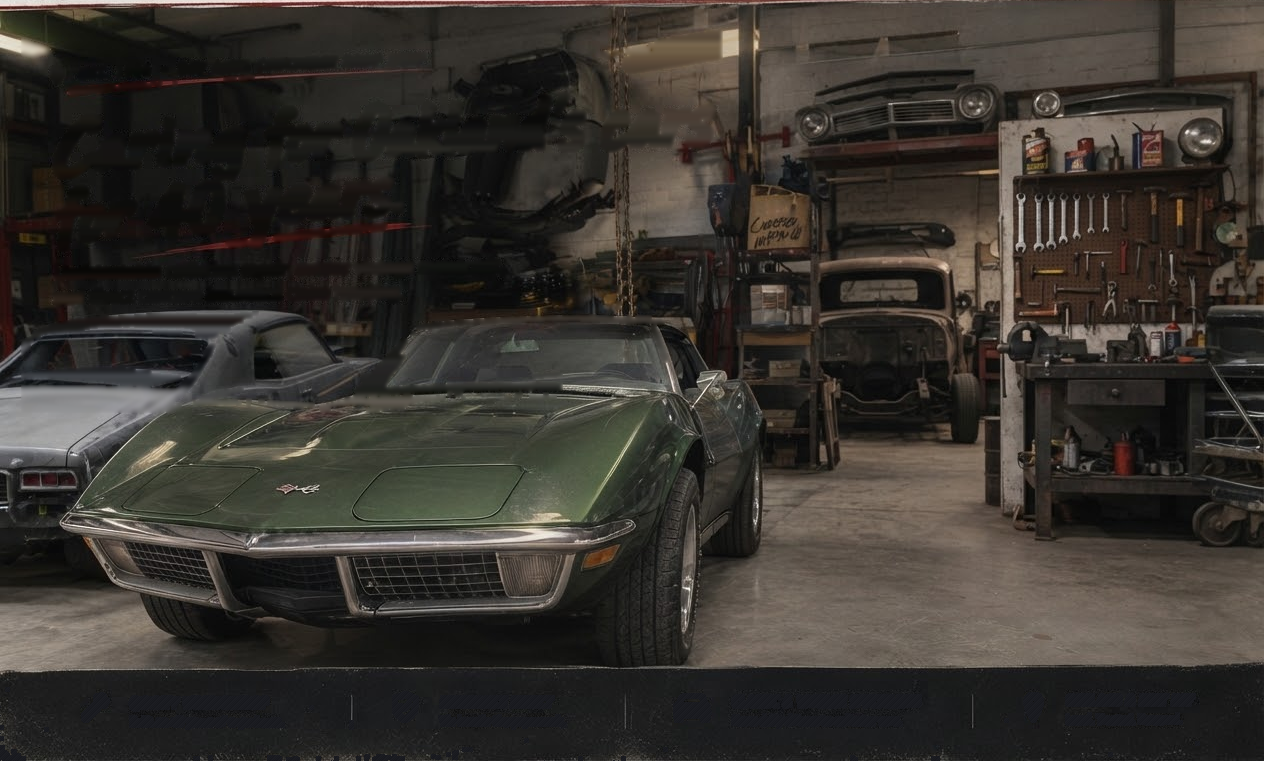
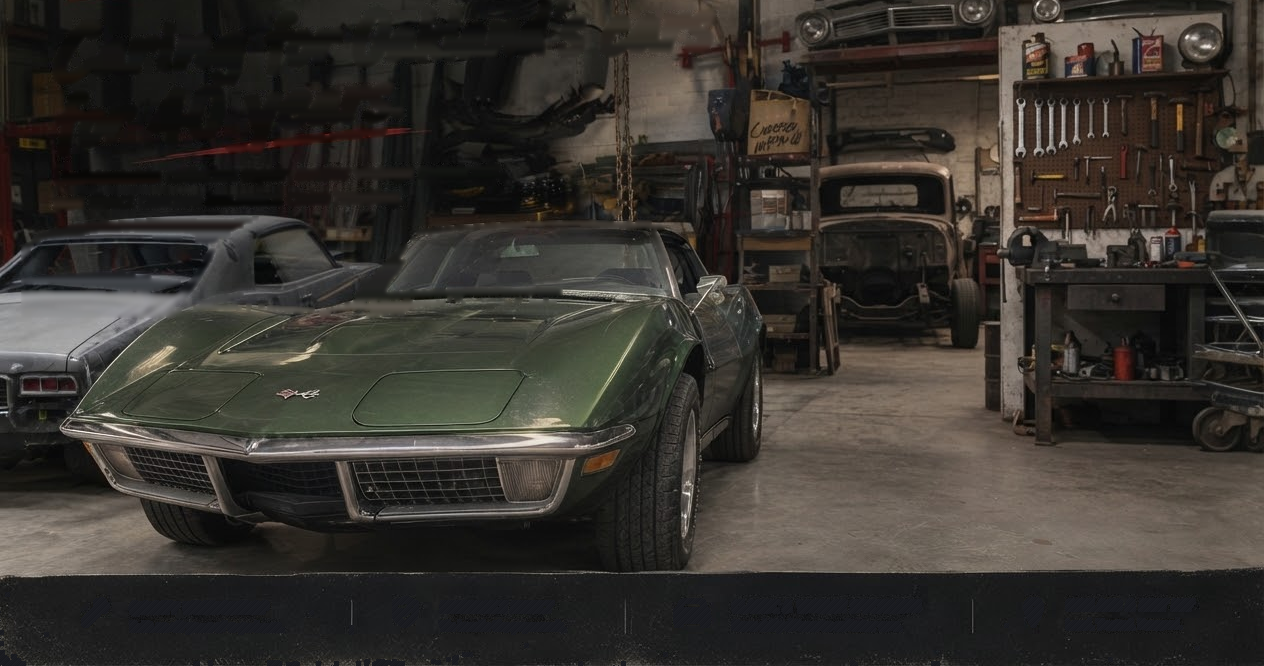
refactor: optimize UI/UX and fix navigation links
Reduce Hero section height, refine mobile Navbar styling, and convert static buttons to functional navigation links for Maps and Phone.

diff --git a/src/components/Hero.tsx b/src/components/Hero.tsx
@@ -24,16 +24,16 @@ export const Hero: React.FC = () => {
       <div className="block md:hidden bg-white p-3 sm:p-4">
         <div className="w-full bg-[#131418] rounded-3xl overflow-hidden border border-white/10 shadow-2xl">
           
-          {/* Top Visual Area with workshop image and smooth fade */}
-          <div className="relative w-full h-64 sm:h-72 overflow-hidden">
+          {/* Top Visual Area with workshop image and smooth fade - trimmed ~1/8 to reduce vertical footprint */}
+          <div className="relative w-full h-56 sm:h-64 overflow-hidden">
             <img
               src={heroBg}
               alt="California Auto Care One - Oakland Shop"
-              className="w-full h-full object-cover object-[50%_35%] block"
+              className="w-full h-full object-cover object-[50%_25%] block"
               loading="eager"
             />
             {/* Top dark subtle gradient for badge clarity */}
-            <div className="absolute inset-x-0 top-0 h-16 bg-gradient-to-b from-black/60 to-transparent pointer-events-none" />
+            <div className="absolute inset-x-0 top-0 h-14 bg-gradient-to-b from-black/60 to-transparent pointer-events-none" />
 
             {/* Pill Badge at the top */}
             <div className="absolute top-3 left-1/2 -translate-x-1/2 w-max max-w-[92%] z-10 pointer-events-none">
@@ -44,7 +44,7 @@ export const Hero: React.FC = () => {
             </div>
 
             {/* Smooth bottom fade into dark card background */}
-            <div className="absolute inset-x-0 bottom-0 h-32 bg-gradient-to-t from-[#131418] via-[#131418]/75 to-transparent pointer-events-none" />
+            <div className="absolute inset-x-0 bottom-0 h-28 bg-gradient-to-t from-[#131418] via-[#131418]/75 to-transparent pointer-events-none" />
           </div>
 
           {/* Card Content Area */}
@@ -63,37 +63,14 @@ export const Hero: React.FC = () => {
               Undetectable collision repair, master vintage metalcraft &amp; direct insurance claim handling. Built on transparency.
             </p>
 
-            {/* Primary Action Button: Book Online & Save $20 (Commented out - will return with new app) */}
-            {/*
-            <button
-              type="button"
-              onClick={handleScrollToServices}
-              className="w-full bg-[#8c2222] hover:bg-[#a12828] active:scale-[0.99] text-white p-3 rounded-2xl flex items-center justify-between shadow-lg shadow-red-950/40 transition-all mb-2.5 cursor-pointer select-none"
-            >
-              <div className="flex items-center gap-2.5">
-                <div className="w-9 h-9 rounded-xl bg-black/20 flex items-center justify-center shrink-0">
-                  <Calendar className="w-4.5 h-4.5 text-white" />
-                </div>
-                <div className="text-left leading-tight">
-                  <div className="text-xs font-bold text-white">Book Online &amp; Save</div>
-                  <div className="text-sm sm:text-base font-extrabold text-white">$20</div>
-                </div>
-              </div>
-              <div className="bg-[#591414] px-2.5 py-1.5 rounded-xl flex items-center gap-1.5 text-[10.5px] font-black uppercase tracking-wider text-white">
-                <span>INSTANT</span>
-                <ArrowRight className="w-3.5 h-3.5" />
-              </div>
-            </button>
-            */}
-
-            {/* Secondary Action Buttons Row: Compact single-line inline fit */}
-            <div className="grid grid-cols-2 gap-2">
+            {/* Action Buttons Row: Bigger and more comfortable touch targets */}
+            <div className="grid grid-cols-2 gap-3 mt-1">
               <a
                 href="tel:5105001018"
-                className="flex items-center justify-center gap-2 bg-[#1f2128] hover:bg-[#282a33] text-white py-2.5 px-2 rounded-xl border border-white/5 active:scale-95 transition-all shadow-sm"
+                className="flex items-center justify-center gap-2.5 bg-[#1f2128] hover:bg-[#2a2d37] active:bg-[#323642] text-white py-3.5 px-3 rounded-2xl border border-white/10 active:scale-[0.98] transition-all shadow-md group"
               >
-                <Phone className="w-3.5 h-3.5 text-stone-300 shrink-0" />
-                <span className="text-white font-bold text-xs whitespace-nowrap tracking-tight">
+                <Phone className="w-4.5 h-4.5 text-red-400 group-hover:text-red-300 transition-colors shrink-0" />
+                <span className="text-white font-bold text-sm sm:text-[15px] whitespace-nowrap tracking-tight">
                   (510) 500-1018
                 </span>
               </a>
@@ -101,10 +78,10 @@ export const Hero: React.FC = () => {
                 href="https://maps.google.com/?q=California+Auto+Care+One+Oakland+CA"
                 target="_blank"
                 rel="noopener noreferrer"
-                className="flex items-center justify-center gap-1.5 bg-[#1f2128] hover:bg-[#282a33] text-white py-2.5 px-2 rounded-xl border border-white/5 active:scale-95 transition-all font-bold text-xs shadow-sm"
+                className="flex items-center justify-center gap-2 bg-[#1f2128] hover:bg-[#2a2d37] active:bg-[#323642] text-white py-3.5 px-3 rounded-2xl border border-white/10 active:scale-[0.98] transition-all font-bold text-sm sm:text-[15px] shadow-md group"
               >
-                <Navigation className="w-3.5 h-3.5 text-stone-300 shrink-0" />
-                <span className="text-white">Directions</span>
+                <Navigation className="w-4.5 h-4.5 text-red-400 group-hover:text-red-300 transition-colors shrink-0" />
+                <span className="text-white tracking-tight">Directions</span>
               </a>
             </div>
 
@@ -182,28 +159,15 @@ export const Hero: React.FC = () => {
               </div>
             </h1>
 
-            {/* Stylized Action Buttons - Stacked Vertically */}
-            <div className="mt-3 sm:mt-4 ml-1 sm:ml-2 flex flex-col items-start gap-2 sm:gap-2.5 pointer-events-auto">
-              {/* Primary CTA: Book Online & Save $20 (Commented out - will return with new app) */}
-              {/*
-              <button
-                type="button"
-                onClick={handleScrollToServices}
-                className="group flex items-center gap-2 bg-[#8c2222] hover:bg-[#a12828] active:scale-95 text-white py-2 px-4 rounded-xl shadow-lg shadow-black/70 transition-all cursor-pointer font-jakarta font-bold text-xs sm:text-sm select-none border border-red-400/25"
-              >
-                <Calendar className="w-3.5 h-3.5 sm:w-4 sm:h-4 text-white shrink-0" />
-                <span>Book Online &amp; Save $20</span>
-                <ArrowRight className="w-3.5 h-3.5 group-hover:translate-x-0.5 transition-transform shrink-0" />
-              </button>
-              */}
-
+            {/* Stylized Action Buttons - Made bigger and prominent */}
+            <div className="mt-4 sm:mt-5 ml-1 flex flex-wrap items-center gap-3 sm:gap-4 pointer-events-auto">
               {/* Phone CTA */}
               <a
                 href="tel:5105001018"
-                className="flex items-center gap-2 bg-black/75 hover:bg-black/90 active:scale-95 text-white py-1.5 sm:py-2 px-3.5 sm:px-4 rounded-xl border border-white/15 backdrop-blur-sm shadow-md shadow-black/50 transition-all cursor-pointer font-jakarta font-semibold text-xs sm:text-sm"
+                className="group flex items-center gap-2.5 bg-black/85 hover:bg-black active:scale-95 text-white py-2.5 sm:py-3.5 px-5 sm:px-6 rounded-2xl border border-white/20 backdrop-blur-md shadow-xl shadow-black/70 transition-all cursor-pointer font-jakarta font-bold text-sm sm:text-base select-none"
               >
-                <Phone className="w-3.5 h-3.5 text-stone-300 shrink-0" />
-                <span>(510) 500-1018</span>
+                <Phone className="w-4 h-4 sm:w-5 sm:h-5 text-red-400 group-hover:text-red-300 transition-colors shrink-0" />
+                <span className="tracking-tight">(510) 500-1018</span>
               </a>
 
               {/* Get Directions CTA */}
@@ -211,10 +175,10 @@ export const Hero: React.FC = () => {
                 href="https://maps.google.com/?q=California+Auto+Care+One+Oakland+CA"
                 target="_blank"
                 rel="noopener noreferrer"
-                className="flex items-center gap-2 bg-black/75 hover:bg-black/90 active:scale-95 text-white py-1.5 sm:py-2 px-3.5 sm:px-4 rounded-xl border border-white/15 backdrop-blur-sm shadow-md shadow-black/50 transition-all cursor-pointer font-jakarta font-semibold text-xs sm:text-sm"
+                className="group flex items-center gap-2.5 bg-black/85 hover:bg-black active:scale-95 text-white py-2.5 sm:py-3.5 px-5 sm:px-6 rounded-2xl border border-white/20 backdrop-blur-md shadow-xl shadow-black/70 transition-all cursor-pointer font-jakarta font-bold text-sm sm:text-base select-none"
               >
-                <Navigation className="w-3.5 h-3.5 text-stone-300 shrink-0" />
-                <span>Get Directions</span>
+                <Navigation className="w-4 h-4 sm:w-5 sm:h-5 text-red-400 group-hover:text-red-300 transition-colors shrink-0" />
+                <span className="tracking-tight">Get Directions</span>
               </a>
             </div>
           </div>

diff --git a/src/components/LocationHours.tsx b/src/components/LocationHours.tsx
@@ -55,14 +55,15 @@ export const LocationHours: React.FC = () => {
                 Oakland, CA 94601 (Fruitvale &amp; San Antonio District)
               </span>
             </div>
-            <button
-              type="button"
-              onClick={(e) => e.preventDefault()}
-              className="px-4 py-2.5 rounded-full bg-[#8b1e1e] hover:bg-[#a52626] text-white text-xs font-bold flex items-center gap-1.5 shadow-sm transition-all self-start sm:self-auto cursor-pointer"
+            <a
+              href="https://maps.google.com/?q=California+Auto+Care+One+Oakland+CA"
+              target="_blank"
+              rel="noopener noreferrer"
+              className="px-5 py-3 rounded-full bg-[#8b1e1e] hover:bg-[#a52626] text-white text-sm font-bold flex items-center gap-2 shadow-sm transition-all self-start sm:self-auto cursor-pointer"
             >
-              <span>Open Maps</span>
-              <ExternalLink className="w-3.5 h-3.5" />
-            </button>
+              <span>Get Directions</span>
+              <ExternalLink className="w-4 h-4" />
+            </a>
           </div>
 
           {/* Hours Table */}
@@ -83,22 +84,22 @@ export const LocationHours: React.FC = () => {
 
           {/* Action Buttons Row */}
           <div className="grid grid-cols-1 sm:grid-cols-2 gap-3">
-            <button
-              type="button"
-              onClick={(e) => e.preventDefault()}
-              className="bg-stone-100 hover:bg-stone-200/80 p-3 rounded-xl text-center text-xs sm:text-sm font-bold text-stone-900 transition-colors flex items-center justify-center gap-2 cursor-pointer"
+            <a
+              href="tel:5105001018"
+              className="bg-stone-100 hover:bg-stone-200/80 active:bg-stone-300/80 py-3.5 px-4 rounded-xl text-center text-sm font-bold text-stone-900 transition-colors flex items-center justify-center gap-2.5 cursor-pointer shadow-xs"
             >
-              <Phone className="w-4 h-4 text-[#8b1e1e]" />
-              <span>Call Shop</span>
-            </button>
-            <button
-              type="button"
-              onClick={(e) => e.preventDefault()}
-              className="bg-stone-100 hover:bg-stone-200/80 p-3 rounded-xl text-center text-xs sm:text-sm font-bold text-stone-900 transition-colors flex items-center justify-center gap-2 cursor-pointer"
+              <Phone className="w-4.5 h-4.5 text-[#8b1e1e]" />
+              <span>Call (510) 500-1018</span>
+            </a>
+            <a
+              href="https://maps.google.com/?q=California+Auto+Care+One+Oakland+CA"
+              target="_blank"
+              rel="noopener noreferrer"
+              className="bg-stone-100 hover:bg-stone-200/80 active:bg-stone-300/80 py-3.5 px-4 rounded-xl text-center text-sm font-bold text-stone-900 transition-colors flex items-center justify-center gap-2.5 cursor-pointer shadow-xs"
             >
-              <Mail className="w-4 h-4 text-[#8b1e1e]" />
-              <span>Email Us</span>
-            </button>
+              <ExternalLink className="w-4.5 h-4.5 text-[#8b1e1e]" />
+              <span>Directions &amp; Map</span>
+            </a>
           </div>
         </div>
       </div>

diff --git a/src/components/Navbar.tsx b/src/components/Navbar.tsx
@@ -44,14 +44,14 @@ export const Navbar: React.FC<NavbarProps> = ({ onNavigate }) => {
           <a
             href="tel:5105001018"
             aria-label="Call Shop"
-            className="w-9 h-9 rounded-full bg-stone-200/90 flex items-center justify-center text-[#1b1c1a] active:scale-95 transition-transform"
+            className="w-10 h-10 rounded-full bg-stone-200/90 hover:bg-stone-300 flex items-center justify-center text-[#1b1c1a] active:scale-95 transition-all shadow-xs"
           >
-            <Phone className="w-4 h-4" />
+            <Phone className="w-4.5 h-4.5 text-[#8b1e1e]" />
           </a>
           <button
             type="button"
             onClick={() => handleNavClick('services')}
-            className="flex items-center gap-1 px-3 py-1.5 rounded-full bg-[#fde8e8] text-[#8b1e1e] text-xs font-bold border border-[#f8b4b4]/60 active:scale-95 transition-transform"
+            className="flex items-center gap-1.5 px-3.5 py-2 rounded-full bg-[#fde8e8] text-[#8b1e1e] text-xs font-bold border border-[#f8b4b4]/60 active:scale-95 transition-transform"
           >
             <Shield className="w-3.5 h-3.5 fill-current" />
             <span>Status</span>
@@ -134,10 +134,10 @@ export const Navbar: React.FC<NavbarProps> = ({ onNavigate }) => {
           {/* Call button with painted red capsule */}
           <a
             href="tel:5105001018"
-            className="relative group px-4 sm:px-6 py-2 sm:py-2.5 rounded-full bg-[#6e1313] hover:bg-[#801818] active:scale-[0.98] text-white font-extrabold text-xs sm:text-sm tracking-wider uppercase shadow-[0_2px_8px_rgba(110,19,19,0.4)] transition-all cursor-pointer flex items-center gap-2"
+            className="relative group px-5 sm:px-6 py-2.5 sm:py-3 rounded-full bg-[#6e1313] hover:bg-[#801818] active:scale-[0.98] text-white font-extrabold text-xs sm:text-sm tracking-wider uppercase shadow-[0_2px_8px_rgba(110,19,19,0.4)] transition-all cursor-pointer flex items-center gap-2"
             style={{ fontFamily: "'Oswald', sans-serif" }}
           >
-            <Phone className="w-3.5 h-3.5 fill-current shrink-0" />
+            <Phone className="w-4 h-4 fill-current shrink-0" />
             <span className="tracking-[0.08em] whitespace-nowrap">
               CALL (510) 500-1018
             </span>

diff --git a/src/components/Footer.tsx b/src/components/Footer.tsx
@@ -23,22 +23,22 @@ export const Footer: React.FC = () => {
 
         {/* Action Buttons */}
         <div className="flex items-center gap-3 pt-1">
-          <button
-            type="button"
-            onClick={(e) => e.preventDefault()}
-            className="px-4 py-2 rounded-full bg-white border border-stone-200 text-stone-800 text-xs font-bold flex items-center gap-1.5 hover:bg-stone-50 shadow-xs transition-colors cursor-pointer"
+          <a
+            href="tel:5105001018"
+            className="px-5 py-2.5 rounded-full bg-white border border-stone-200 text-stone-800 text-xs sm:text-sm font-bold flex items-center gap-2 hover:bg-stone-50 active:scale-95 shadow-xs transition-all cursor-pointer"
           >
-            <Phone className="w-3.5 h-3.5 text-[#8b1e1e]" />
+            <Phone className="w-4 h-4 text-[#8b1e1e]" />
             <span>(510) 500-1018</span>
-          </button>
-          <button
-            type="button"
-            onClick={(e) => e.preventDefault()}
-            className="px-4 py-2 rounded-full bg-white border border-stone-200 text-stone-800 text-xs font-bold flex items-center gap-1.5 hover:bg-stone-50 shadow-xs transition-colors cursor-pointer"
+          </a>
+          <a
+            href="https://maps.google.com/?q=California+Auto+Care+One+Oakland+CA"
+            target="_blank"
+            rel="noopener noreferrer"
+            className="px-5 py-2.5 rounded-full bg-white border border-stone-200 text-stone-800 text-xs sm:text-sm font-bold flex items-center gap-2 hover:bg-stone-50 active:scale-95 shadow-xs transition-all cursor-pointer"
           >
-            <Navigation className="w-3.5 h-3.5 text-[#8b1e1e]" />
+            <Navigation className="w-4 h-4 text-[#8b1e1e]" />
             <span>Directions</span>
-          </button>
+          </a>
         </div>
 
         {/* Quiet Legal Copyright */}
